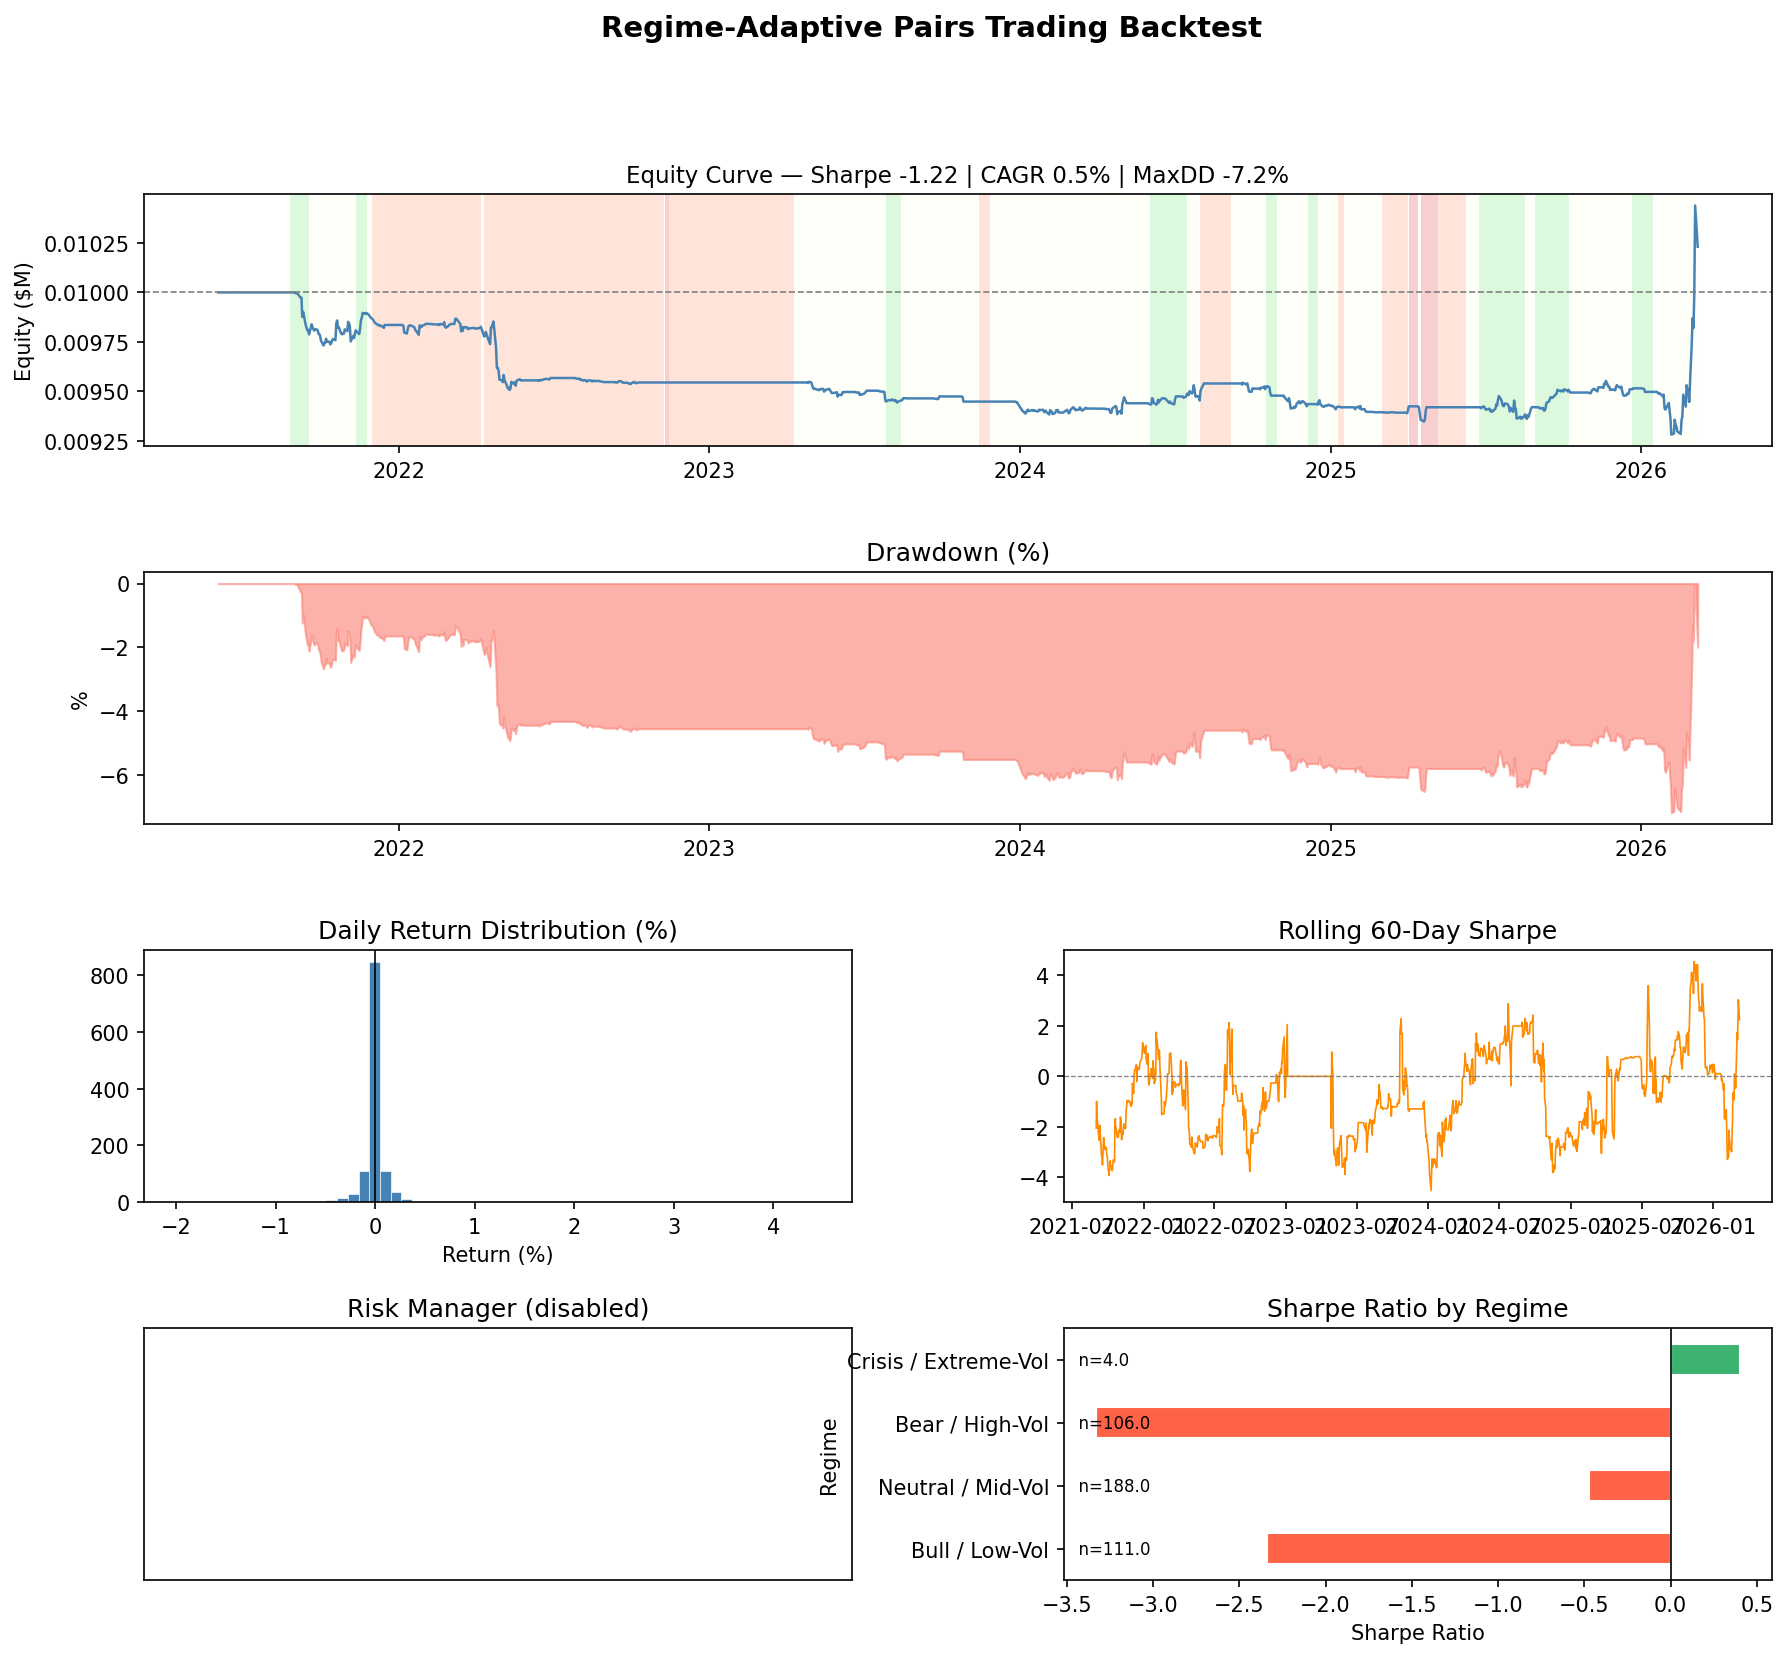
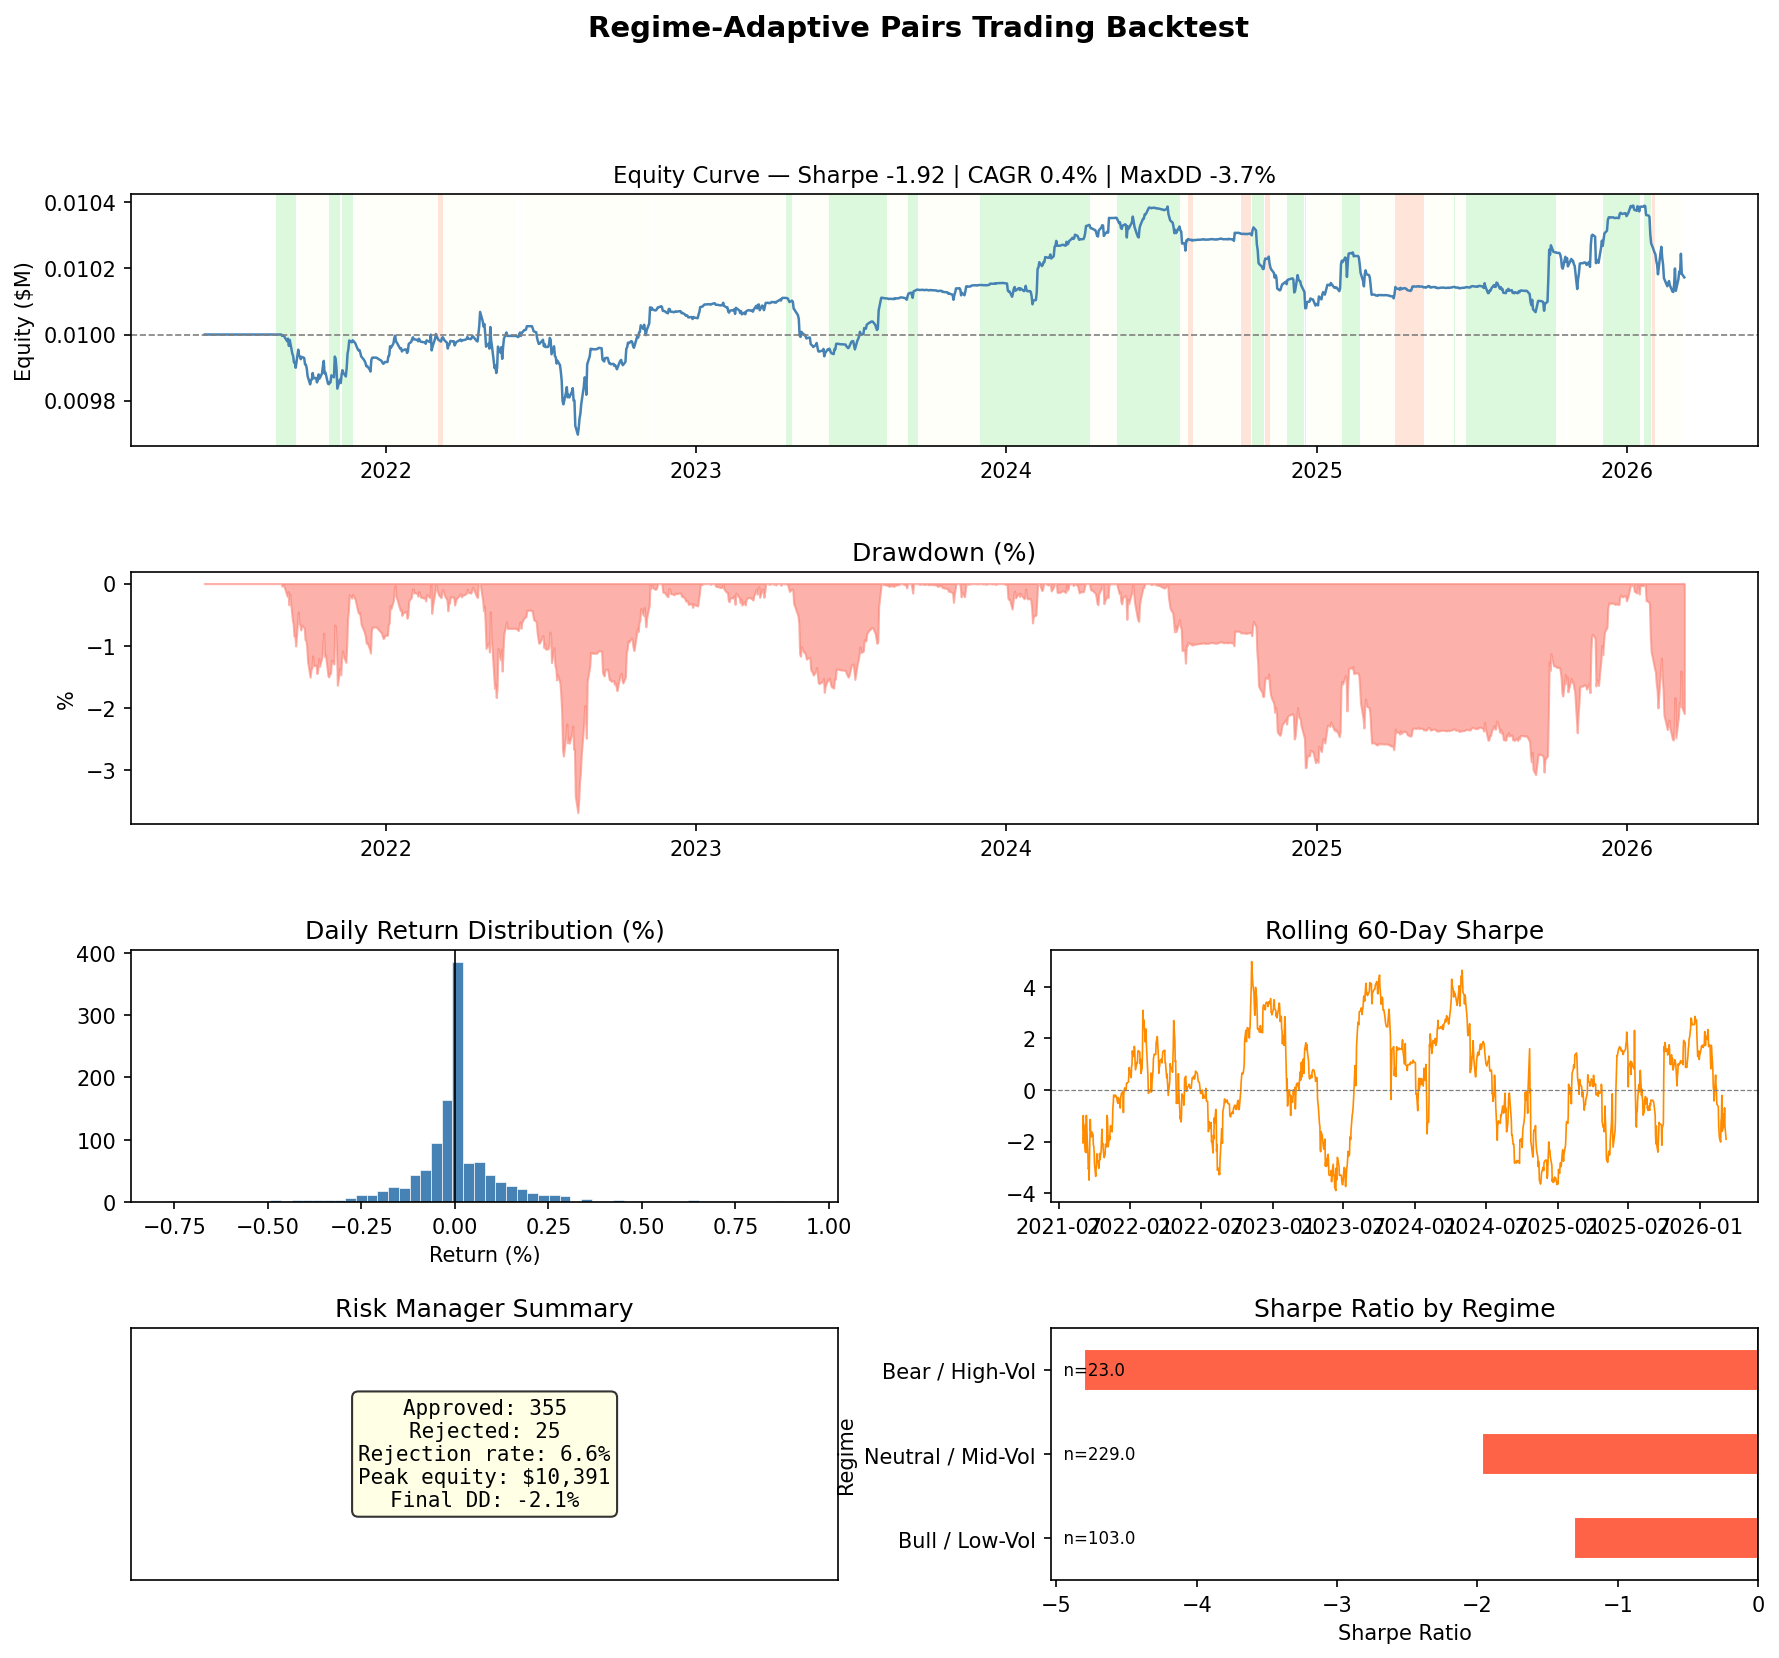
Mapped frontend regime-risk overrides into backend config

diff --git a/dashboard/backend/app.py b/dashboard/backend/app.py
@@ -95,6 +95,36 @@ def _build_config_from_payload(payload: dict[str, Any]) -> tuple[PlatformConfig,
         except Exception:
             pass
 
+    # Regime-aware risk maps (from frontend overrides)
+    if "regimeLeverageCaps" in overrides:
+        raw = overrides.get("regimeLeverageCaps") or {}
+        if isinstance(raw, dict):
+            try:
+                cfg.risk.regime_leverage_caps = {int(k): float(v) for k, v in raw.items()}
+            except Exception:
+                pass
+    if "regimeMaxOpenPairs" in overrides:
+        raw = overrides.get("regimeMaxOpenPairs") or {}
+        if isinstance(raw, dict):
+            try:
+                cfg.risk.regime_max_open_pairs = {int(k): int(v) for k, v in raw.items()}
+            except Exception:
+                pass
+    if "regimePairNotionalPct" in overrides:
+        raw = overrides.get("regimePairNotionalPct") or {}
+        if isinstance(raw, dict):
+            try:
+                cfg.risk.regime_pair_notional_pct = {int(k): float(v) for k, v in raw.items()}
+            except Exception:
+                pass
+    if "regimeTickerNotionalPct" in overrides:
+        raw = overrides.get("regimeTickerNotionalPct") or {}
+        if isinstance(raw, dict):
+            try:
+                cfg.risk.regime_ticker_notional_pct = {int(k): float(v) for k, v in raw.items()}
+            except Exception:
+                pass
+
     # Universe override (top-level or inside overrides) -- allows selecting sector or full top200
     universe = payload.get("universe") or overrides.get("universe")
     if universe:

diff --git a/src/backtest/run_backtest.py b/src/backtest/run_backtest.py
@@ -463,6 +463,10 @@ def run_backtest(cfg: PlatformConfig, use_risk: bool = True) -> dict:
             drawdown_halt_pct=cfg.risk.drawdown_halt_pct,
             drawdown_reduce_pct=cfg.risk.drawdown_reduce_pct,
             drawdown_scale_factor=cfg.risk.drawdown_scale_factor,
+            regime_leverage_caps=getattr(cfg.risk, "regime_leverage_caps", None) or getattr(cfg.risk, "regime_leverage_caps", {}),
+            regime_max_open_pairs=getattr(cfg.risk, "regime_max_open_pairs", None) or getattr(cfg.risk, "regime_max_open_pairs", {}),
+            regime_pair_notional_pct=getattr(cfg.risk, "regime_pair_notional_pct", None) or getattr(cfg.risk, "regime_pair_notional_pct", {}),
+            regime_ticker_notional_pct=getattr(cfg.risk, "regime_ticker_notional_pct", None) or getattr(cfg.risk, "regime_ticker_notional_pct", {}),
         )
         risk_manager = RiskManager(config=risk_cfg)
         risk_manager._peak_equity = cfg.backtest.initial_capital

diff --git a/src/risk/risk_manager.py b/src/risk/risk_manager.py
@@ -74,6 +74,10 @@ class RiskConfig:
         2: 2.0,   # High vol
         3: 1.0,   # Crisis
     })
+    # Optional per-regime overrides for other risk dimensions
+    regime_max_open_pairs: dict = field(default_factory=lambda: {0: 10, 1: 8, 2: 5, 3: 2})
+    regime_pair_notional_pct: dict = field(default_factory=lambda: {0: 0.2, 1: 0.15, 2: 0.10, 3: 0.05})
+    regime_ticker_notional_pct: dict = field(default_factory=lambda: {0: 0.25, 1: 0.20, 2: 0.15, 3: 0.08})
 
 
 # ─────────────────────────────────────────────────────────────────────────────

diff --git a/src/config.py b/src/config.py
@@ -94,6 +94,11 @@ class RiskConfigSpec:
     drawdown_halt_pct: float = -0.30
     drawdown_reduce_pct: float = -0.15
     drawdown_scale_factor: float = 0.50
+    # Regime-aware risk maps (optional)
+    regime_leverage_caps: dict = field(default_factory=lambda: {0: 4.0, 1: 3.0, 2: 2.0, 3: 1.0})
+    regime_max_open_pairs: dict = field(default_factory=lambda: {0: 10, 1: 8, 2: 5, 3: 2})
+    regime_pair_notional_pct: dict = field(default_factory=lambda: {0: 0.2, 1: 0.15, 2: 0.10, 3: 0.05})
+    regime_ticker_notional_pct: dict = field(default_factory=lambda: {0: 0.25, 1: 0.20, 2: 0.15, 3: 0.08})
 
 
 @dataclass
